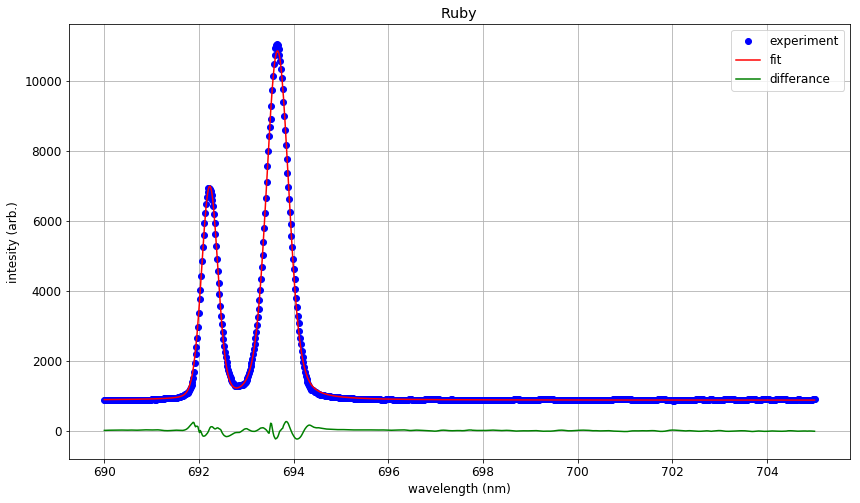
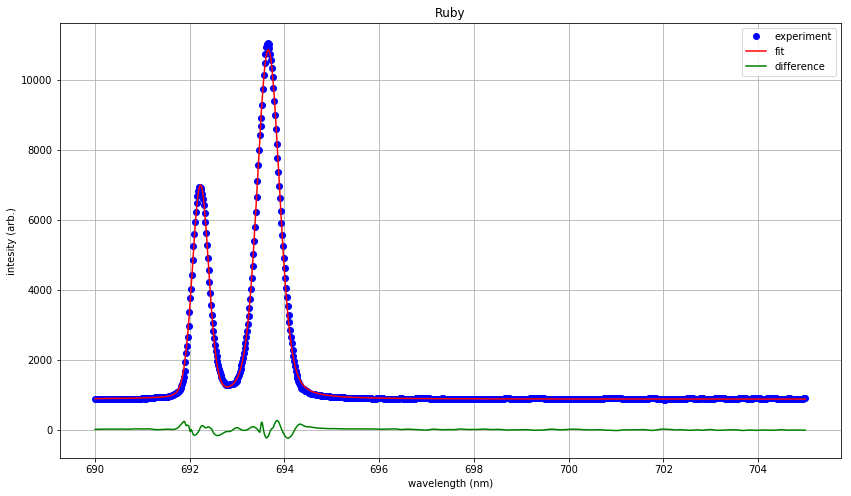
spelling

diff --git a/ruby.py b/ruby.py
@@ -12,7 +12,7 @@ from scipy.optimize import curve_fit
 import matplotlib.pyplot as plt
 
 # read data from csv file
-data = read_csv('6.6b.csv', skiprows=None, header=None, sep='\t', lineterminator='\n', names=["lambda","intensity"])
+data = read_csv('0GPa.csv', skiprows=None, header=None, sep='\t', lineterminator='\n', names=["lambda","intensity"])
 x = data.iloc[:,0]
 y = data.iloc[:,1]
 
@@ -38,7 +38,7 @@ dif = ruby(x, *popt) - y
 fig, ax = plt.subplots(figsize=(14, 8))
 plt.plot(x, y, 'ob', label='experiment')
 plt.plot(x,ruby(x, *popt), '-r', label='fit')
-plt.plot(x, dif, '-g', label='differance')
+plt.plot(x, dif, '-g', label='difference')
 
 # arange figure
 ax.grid(True)
